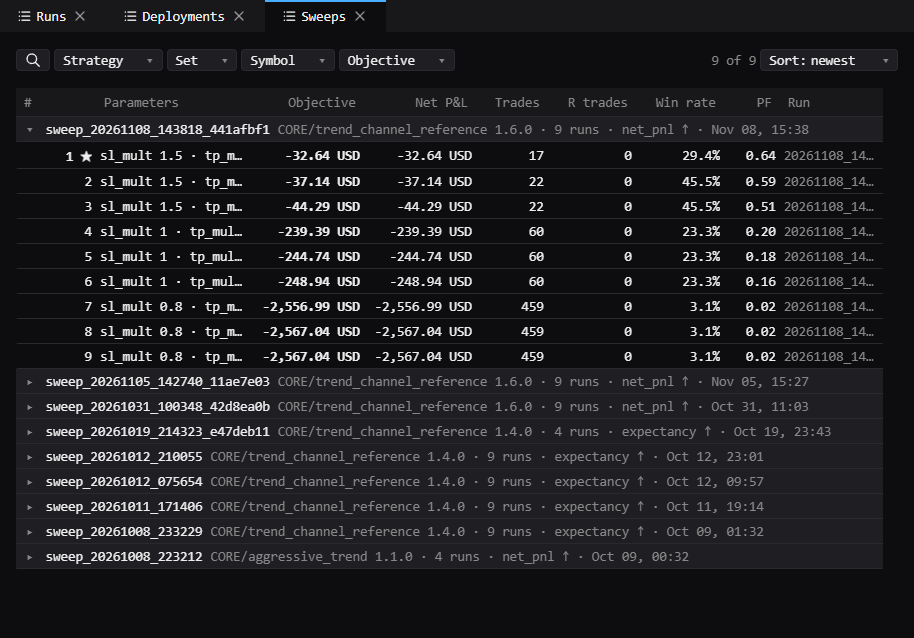
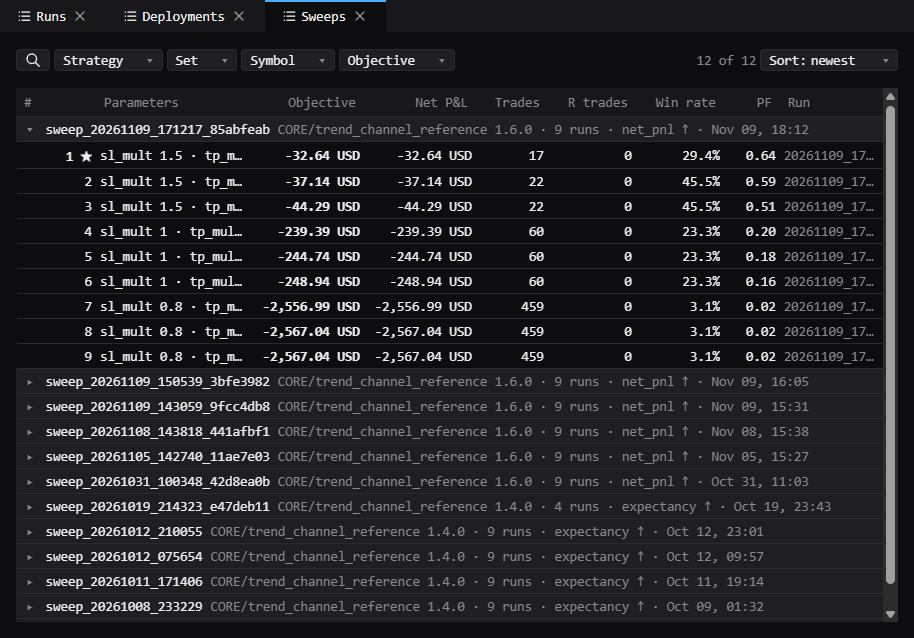
Take the README's pictures from the catalog produced under contract 52
The deployment and the sweep the pictures show move to the productions
FiniexTestingIDE made under contract 52, the session at the same place
in the deployment as before. Retaken against the live API: the run
chart in the workspace now draws its time lane.

diff --git a/e2e/readme_pictures.spec.ts b/e2e/readme_pictures.spec.ts
@@ -28,10 +28,10 @@ const OUT = '/app/docs/images'
 const RUN = '20261007_145935_5f9186f8'
 const UNIT = 'EURUSD_blocks_09'
 const SESSION = '20261022_123550_0bfde90e'
-const DEPLOYMENT = 'deploy_20261108_143439_214aa9fc'
+const DEPLOYMENT = 'deploy_20261109_170634_ee56285c'
 // a session of that deployment, so the panels beside it show the bot's run
-const DEPLOYMENT_SESSION = '20261108_143554_987d07e8'
-const SWEEP = 'sweep_20261108_143818_441afbf1'
+const DEPLOYMENT_SESSION = '20261109_170756_16e8aed9'
+const SWEEP = 'sweep_20261109_171217_85abfeab'
 // the arrangement the pictures are taken in, stored with the size it was arranged at
 const ARRANGEMENT = JSON.parse(readFileSync(join(dirname(fileURLToPath(import.meta.url)), 'readme_arrangement.json'), 'utf-8'))
 const HIDDEN = (process.env['PICTURES_HIDE'] ?? '').split(',').map(word => word.trim().toLowerCase()).filter(Boolean)
